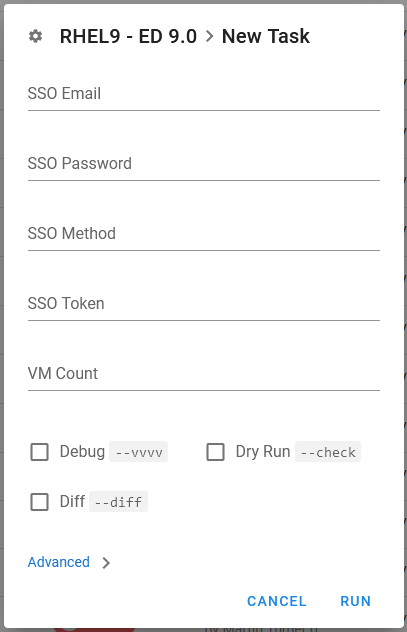
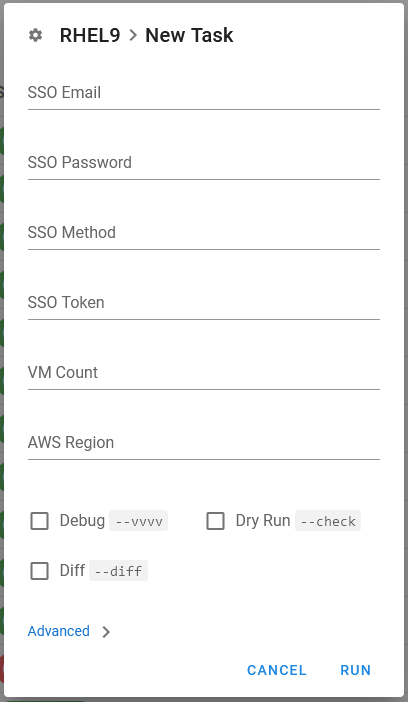
Add 'AWS Region' in docs

diff --git a/docs/index.md b/docs/index.md
@@ -25,9 +25,10 @@
 4. You will now see a pop-up window showing 5 entry fields. Only the first 2, SSO Email and password, are required fields.  
     - SSO Email - Micro Focus Email to authenticate with Pulse VPN.  
     - SSO Password - Micro Focus Password to Authenticate with Pulse VPN.  
-    - SSO Method - SSO Authentication method to use. 1=SmartPhonePush 2=TOTP (default=1).  
+    - SSO Method - SSO Authentication method to use. 1=SmartPhonePush 2=TOTP (default=1)  
     - SSO Token - Valid authentication token to use for TOTP.  
-    - VM Count - Number of duplicate EC2 instances to create (default=1).  
+    - VM Count - Number of duplicate EC2 instances to create (default=1). 
+    - AWS Region - Region where you want the EC2 instance to be created. 1=EMEA 2=AMS 3=APJ (default=1)   
 ![4](images/4.png)  
 
     > **NOTE:** Unless you are creating and testing new Tasks, there is no need to check any of the checkboxes at the bottom.  
